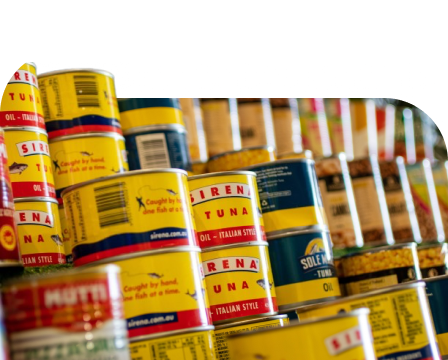
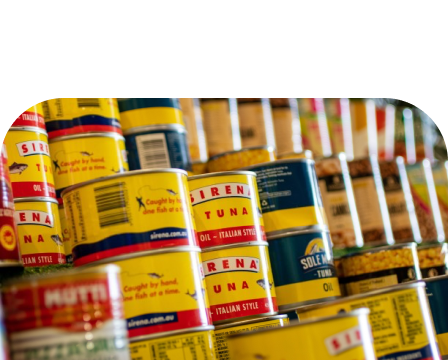
:D

Changed region(s): [[0.0, 0.1528, 0.2812, 0.4278]]

diff --git a/lib/screens/details_screen.dart b/lib/screens/details_screen.dart
@@ -2,7 +2,7 @@ import 'package:flutter/material.dart';
 import 'package:flutter_animate/flutter_animate.dart';
 import 'package:flutter_app/app_colors.dart';
 import 'package:flutter_app/app_state.dart';
-import 'package:flutter_app/components/CustomPieChart.dart';
+import 'package:flutter_app/components/custom_pie_chart.dart';
 import 'package:flutter_app/components/custom_card.dart';
 import 'package:flutter_app/models/receipt.dart';
 import 'package:flutter_app/services/navigation_service.dart';
@@ -102,7 +102,7 @@ class _DetailsScreenState extends State<DetailsScreen> {
                         mainAxisAlignment: MainAxisAlignment.spaceBetween,
                         children: [
                           Text(item.title, style: const TextStyle(fontSize: 16)),
-                          Text(item.carbon.toStringAsFixed(1) + "kg CO2", style: const TextStyle(fontSize: 16)),
+                          Text("${item.carbon.toStringAsFixed(1)}kg CO2", style: const TextStyle(fontSize: 16)),
                         ],
                       ))).toList(),
                       Container(
@@ -117,7 +117,7 @@ class _DetailsScreenState extends State<DetailsScreen> {
                         mainAxisAlignment: MainAxisAlignment.spaceBetween,
                         children: [
                           const Text("Sum", style: TextStyle(fontSize: 16)),
-                          Text(widget.receipt.totalCarbon.toStringAsFixed(1) + "kg CO2", style: const TextStyle(fontSize: 16)),
+                          Text("${widget.receipt.totalCarbon.toStringAsFixed(1)}kg CO2", style: const TextStyle(fontSize: 16)),
                         ],
                       )
                     ],

diff --git a/lib/screens/home_views/dashboard.dart b/lib/screens/home_views/dashboard.dart
@@ -1,17 +1,14 @@
-import 'dart:io';
-
 import 'package:flutter/material.dart';
 import 'package:flutter_animate/flutter_animate.dart';
 import 'package:flutter_app/app_colors.dart';
 import 'package:flutter_app/app_state.dart';
 import 'package:flutter_app/components/chart.dart';
 import 'package:flutter_app/components/custom_card.dart';
-import 'package:flutter_app/components/custom_image_card.dart';
 import 'package:flutter_app/components/tipp_card.dart';
 import 'package:flutter_app/components/view_title_bar.dart';
 import 'package:flutter_app/components/title_bar.dart';
 import 'package:flutter_app/services/navigation_service.dart';
-import 'package:flutter_app/components/CustomPieChart.dart';
+import 'package:flutter_app/components/custom_pie_chart.dart';
 
 import '../../components/card_slider.dart';
 import '../../constants/tipps.dart';
@@ -78,7 +75,7 @@ class _DashboardState extends State<Dashboard> {
                     color: AppColor.cardGreen,
                     child: Padding(
                       padding: const EdgeInsets.only(top: 24, left: 0, right: 0, bottom: 24),
-                      child: data.isEmpty ? Container(height: 300, child: const Center(child: Text("No Data"))) : CustomPieChart(data: data),
+                      child: data.isEmpty ? const SizedBox(height: 300, child: Center(child: Text("No Data"))) : CustomPieChart(data: data),
                     ),
                   ),
                 ).animate()

diff --git a/lib/components/custom_image_card.dart b/lib/components/custom_image_card.dart
@@ -11,21 +11,30 @@ class CustomImageCard extends StatelessWidget {
 
   @override
   Widget build(BuildContext context) {
-    return InkWell(
-      onTap: onTap,
-      child: SingleChildScrollView(child: Column(
-        children: [
-          Image(image: image, width: width),
-          Container(
-            decoration: BoxDecoration(
-              color: color,
-              borderRadius: const BorderRadius.only(bottomLeft: Radius.circular(32), bottomRight: Radius.circular(32))
-            ),
-            width: width,
-            child: child,
-          )
-        ],
-      ))
+    Widget content = Material(color: Colors.transparent, child: SingleChildScrollView(child: Column(
+      children: [
+        Image(image: image, width: width),
+        Container(
+          decoration: BoxDecoration(
+            color: color,
+            borderRadius: const BorderRadius.only(bottomLeft: Radius.circular(32), bottomRight: Radius.circular(32))
+          ),
+          width: width,
+          child: child,
+        )
+      ],
+    )));
+
+    if (onTap == null) {
+      return content;
+    }
+
+    return Material(
+      color: Colors.transparent,
+      child: InkWell(
+        onTap: onTap,
+        child: content
+      )
     );
   }
 }

diff --git a/lib/screens/home_views/history.dart b/lib/screens/home_views/history.dart
@@ -1,12 +1,9 @@
 import 'package:flutter/material.dart';
 import 'package:flutter_app/app_colors.dart';
 import 'package:flutter_app/app_state.dart';
-import 'package:flutter_app/components/chart.dart';
-import 'package:flutter_app/components/custom_card.dart';
 import 'package:flutter_app/components/history_item.dart';
 import 'package:flutter_app/components/view_title_bar.dart';
 import 'package:flutter_app/models/receipt.dart';
-import 'package:flutter_app/models/receipt_item.dart';
 import 'package:flutter_app/services/navigation_service.dart';
 
 class History extends StatefulWidget {
@@ -38,7 +35,7 @@ class _HistoryState extends State<History> {
                   return ListView.builder(
                     itemCount: AppState.receipts.length,
                     itemBuilder: (context, index) {
-                      final item = AppState.receipts[index];
+                      final item = AppState.receipts[AppState.receipts.length - index - 1];
                       return Padding(
                         padding: const EdgeInsets.symmetric(vertical: 7),
                         child: InkWell(

diff --git a/lib/screens/tipps_screen.dart b/lib/screens/tipps_screen.dart
@@ -1,5 +1,7 @@
 import 'package:flutter/material.dart';
 import 'package:flutter_app/app_colors.dart';
+import 'package:flutter_app/components/tipp_card.dart';
+import 'package:flutter_app/constants/tipps.dart';
 
 class TippsScreen extends StatefulWidget {
   const TippsScreen({super.key});
@@ -20,15 +22,19 @@ class _TippsScreenState extends State<TippsScreen> {
         backgroundColor: Colors.transparent,
         foregroundColor: Colors.black87,
       ),
-      body: ListView.builder(
-        itemCount: 10,
-        itemBuilder: (context, index) => const Card(
-          child: ListTile(
-            title: Text("Test"),
-            subtitle: Text("Test"),
-          ),
-        ),
-      )
+      body: SingleChildScrollView(child: Column(
+        crossAxisAlignment: CrossAxisAlignment.center,
+        children: [
+          ...constantsTipps.map((e) => Row(
+            mainAxisAlignment: MainAxisAlignment.center,
+            children: [
+              TippCard(
+                tipp: e,
+              )
+            ],
+          )),
+        ],
+      ))
     );
   }
 }

diff --git a/lib/components/title_bar.dart b/lib/components/title_bar.dart
@@ -1,7 +1,5 @@
 import 'package:flutter/material.dart';
 
-import '../app_colors.dart';
-
 class TitleBar extends StatelessWidget {
   const TitleBar({super.key, required this.title, required this.onMorePressed, required this.xPadding});
 
@@ -22,8 +20,8 @@ class TitleBar extends StatelessWidget {
             foregroundColor: MaterialStateProperty.all<Color>(Colors.grey),
           ),
           child: Row(
-            children: [
-              const Text("SEE ALL"),
+            children: const [
+              Text("SEE ALL"),
               Icon(Icons.chevron_right)
             ],
           )

diff --git a/lib/components/history_item.dart b/lib/components/history_item.dart
@@ -32,7 +32,7 @@ class HistoryItem extends StatelessWidget {
           ),
           Row(
             children: [
-              Text(receipt.totalCarbon.toStringAsFixed(1) + "kg", style: const TextStyle(fontSize: 18, fontWeight: FontWeight.bold)),
+              Text("${receipt.totalCarbon.toStringAsFixed(1)} kg", style: const TextStyle(fontSize: 18, fontWeight: FontWeight.bold)),
               const SizedBox(width: 4),
               const Text("CO", style: TextStyle(fontSize: 18)),
               const Padding(

diff --git a/lib/components/camera.dart b/lib/components/camera.dart
@@ -84,9 +84,7 @@ class _CameraState extends State<Camera> {
     try {
      final file = await controller!.takePicture();
      widget.onPhotoTaken(File(file.path));
-    } catch (e) {
-      print(e);
-    }
+    } catch (e) {}
 
     setState(() {
       isTakingPicture = false;
